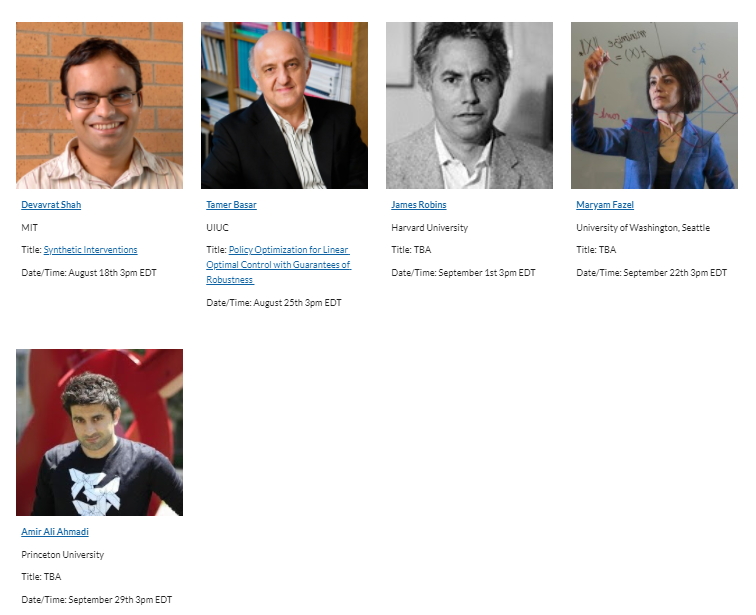
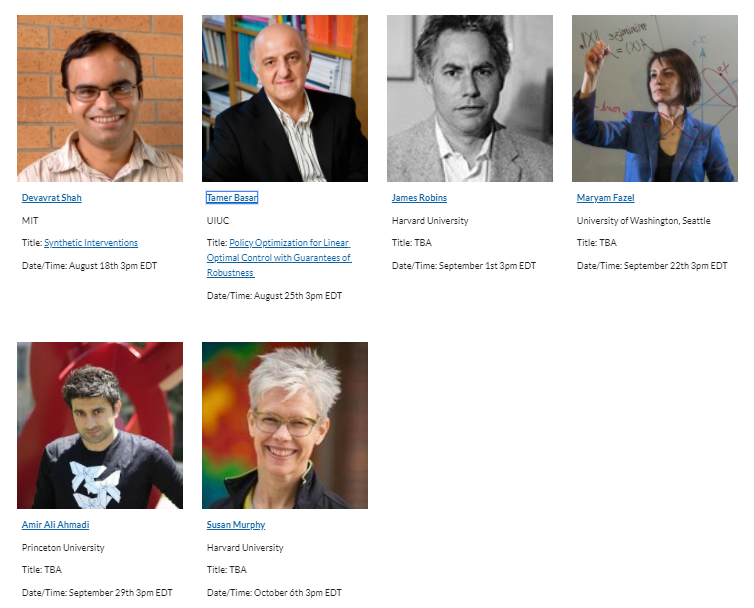
Update Math-for-DS.md

Changed region(s): [[0.0, 0.0, 1.0, 0.5], [0.0, 0.5625, 0.4881, 1.0], [0.2745, 0.9688, 0.4576, 1.0]]

diff --git a/_projects/Math-for-DS.md b/_projects/Math-for-DS.md
@@ -21,19 +21,19 @@ To ask the speaker a question, please use the Q&A function in Zoom to type your 
 
 ## Next speaker
 
- <p align="center"><img width="20%" src="/images/news/MathDS/devavrat.jpg" /></p>
+ <p align="center"><img width="20%" src="/images/news/MathDS/basar.jpg" /></p>
 
-##### **Next Speaker:** [**Devavrat Shah**](https://devavrat.mit.edu/), MIT
-##### **Date/Time:** Tuesday, August 18th, 3pm EDT [**[Zoom Link]**](https://psu.zoom.us/j/95512102924) [**[Facebook Link]**](https://www.facebook.com/events/638840553410875)
-##### **Title:** Synthetic Interventions
+##### **Next Speaker:** [**Tamer Basar**](http://tamerbasar.csl.illinois.edu/), UIUC
+##### **Date/Time:** Tuesday, August 25th, 3pm EDT [**[Zoom Link]**](https://psu.zoom.us/j/95512102924) [**[Facebook Link]**](/)
+##### **Title:** Policy Optimization for Linear Optimal Control with Guarantees of Robustness 
 
-**Abstract:** As we face the resurgence of COVID-19 pandemic in the United States, a pressing question is facing us: shall we shut down the economy again? or can we tame the pandemic with effective policies while letting the economy remain (partially) open? Towards that, we first need to understand if shutting down the economy helped in the first place. And if it did, is it possible to achieve similar gains while partially opening up the economy? And if so, how does that translate into public health policy?
+**Abstract:** Policy optimization (PO) is a key ingredient of modern reinforcement learning (RL), and can be used for the efficient design of optimal controllers. For control design, certain constraints are generally enforced on the policies to be implemented, such as stability, robustness, and/or safety concerns on the closed-loop system. Hence, PO entails, by its nature, a constrained optimization in most cases, which is also nonconvex, and analysis of its global convergence is generally very challenging. Further, another element that compounds the challenge is that some of the constraints that are safety-critical, such as closed-loop stability or the H-infinity norm constraint that guarantees the system robustness, can be difficult to enforce on the controller while being learned as the PO methods proceed. We have recently overcome this difficulty for a special class of such problems, which I will discuss in this presentation.
 
-To address such ’what if scenario analysis’ questions, we propose a method of Synthetic Interventions (SI). It enables counterfactual estimates for all interventions of interest using observed data only. SI generalizes the classical Synthetic Controls (SC) method for causal inference using observational studies — it has similar data requirements as SC, but enables counterfactual estimates with multiple interventions, rather than single intervention as in SC. The SI method comes with a data-driven test to evaluate its applicability. In addition to explaining its utility in answering above mentioned questions, time permitting, we shall discuss applications in the context of policy design in the developing countries, online A/B testing and drug discovery.   
+Specifically, I will introduce the problem of PO for H2 linear control with a guarantee of robustness according to the H∞ criterion, for both continuous- and discrete-time linear systems. I will argue, with justification, that despite the nonconvexity of the problem, PO methods can enjoy the global convergence property. More importantly, I will show that the iterates of two specific PO methods (namely, natural policy gradient and Gauss-Newton) automatically preserve the H∞ norm (i.e., the robustness) during iterations, thus enjoying what we refer to as “implicit regularization” property. Furthermore, under certain conditions, convergence to the globally optimal policies features globally sub-linear and locally super-linear rates. Due to the inherent equivalence of this optimal robust control model to risk-sensitive linear control and linear quadratic (LQ) dynamic games, these results also apply as a byproduct to these settings as well, which I will also discuss. The talk will conclude with some informative simulations, and brief discussion of extensions to the model-free framework and associated sample complexity analyses.
 
-Based on joint works with Anish Agarwal, Abdullah Aalomar, Romain Cosson, Arnab Sarkar, Dennis Shen and Cindy Yang (all at MIT).
+(Based on joint work with Kaiqing Zhang and Bin Hu, UIUC)
 
-**Bio:** Devavrat Shah is a Professor with the department of Electrical Engineering and Computer Science at MIT. He is the founding director of Statistics and Data Science Center at MIT. He is a member of the Institute for Data, Systems and Society, LIDS, CSAIL and ORC at MIT. His current research interests include algorithms for machine learning, causal inference and social data processing. He has received paper awards from INFORMS Applied Probability Society, NeurIPS, ACM Sigmetrics and IEEE Infocom. He has received Erlang Prize from INFORMS Applied Probability Society and Rising Star Award from ACM Sigmetrics. He is a distinguished young alumni of his alma mater IIT Bombay. In 2013, he founded the machine learning start-up Celect, Inc. which helps retailers with optimizing inventory by accurate demand forecasting. In August 2019, Celect, Inc. was acquired by Nike, Inc.
+**Bio:** Tamer Başar has been with the University of Illinois at Urbana-Champaign since 1981, where he holds the academic positions of Swanlund Endowed Chair; Center for Advanced Study (CAS) Professor of Electrical and Computer Engineering; Professor, Coordinated Science Laboratory; Professor, Information Trust Institute; and Affiliate Professor, Mechanical Science and Engineering. He is also the Director of the Center for Advanced Study. At Illinois, he has also served as Interim Dean of Engineering and Interim Director of the Beckman Institute for Advanced Science and Technology. He is a member of the US National Academy of Engineering; Fellow of IEEE, IFAC, and SIAM; a past president of the IEEE Control Systems Society (CSS), the founding president of the International Society of Dynamic Games (ISDG), and a past president of the American Automatic Control Council (AACC). He has received several awards and recognitions over the years, including the highest awards of IEEE CSS, IFAC, AACC, and ISDG, the IEEE Control Systems Technical Field Award, and a number of international honorary doctorates and professorships, most recently an honorary doctorate from KTH, Sweden. He has over 900 publications in systems, control, communications, optimization, networks, and dynamic games, including books on non-cooperative dynamic game theory, robust control, network security, wireless and communication networks, and stochastic networks. He was Editor-in-Chief of the IFAC Journal Automatica between 2004 and 2014, and is currently editor of several book series. His current research interests include stochastic teams, games, and networks; multi-agent systems and learning; data-driven distributed optimization; epidemics modeling and control over networks; security and trust; energy systems; and cyber-physical systems.
 
 ## Upcoming Speakers
 
